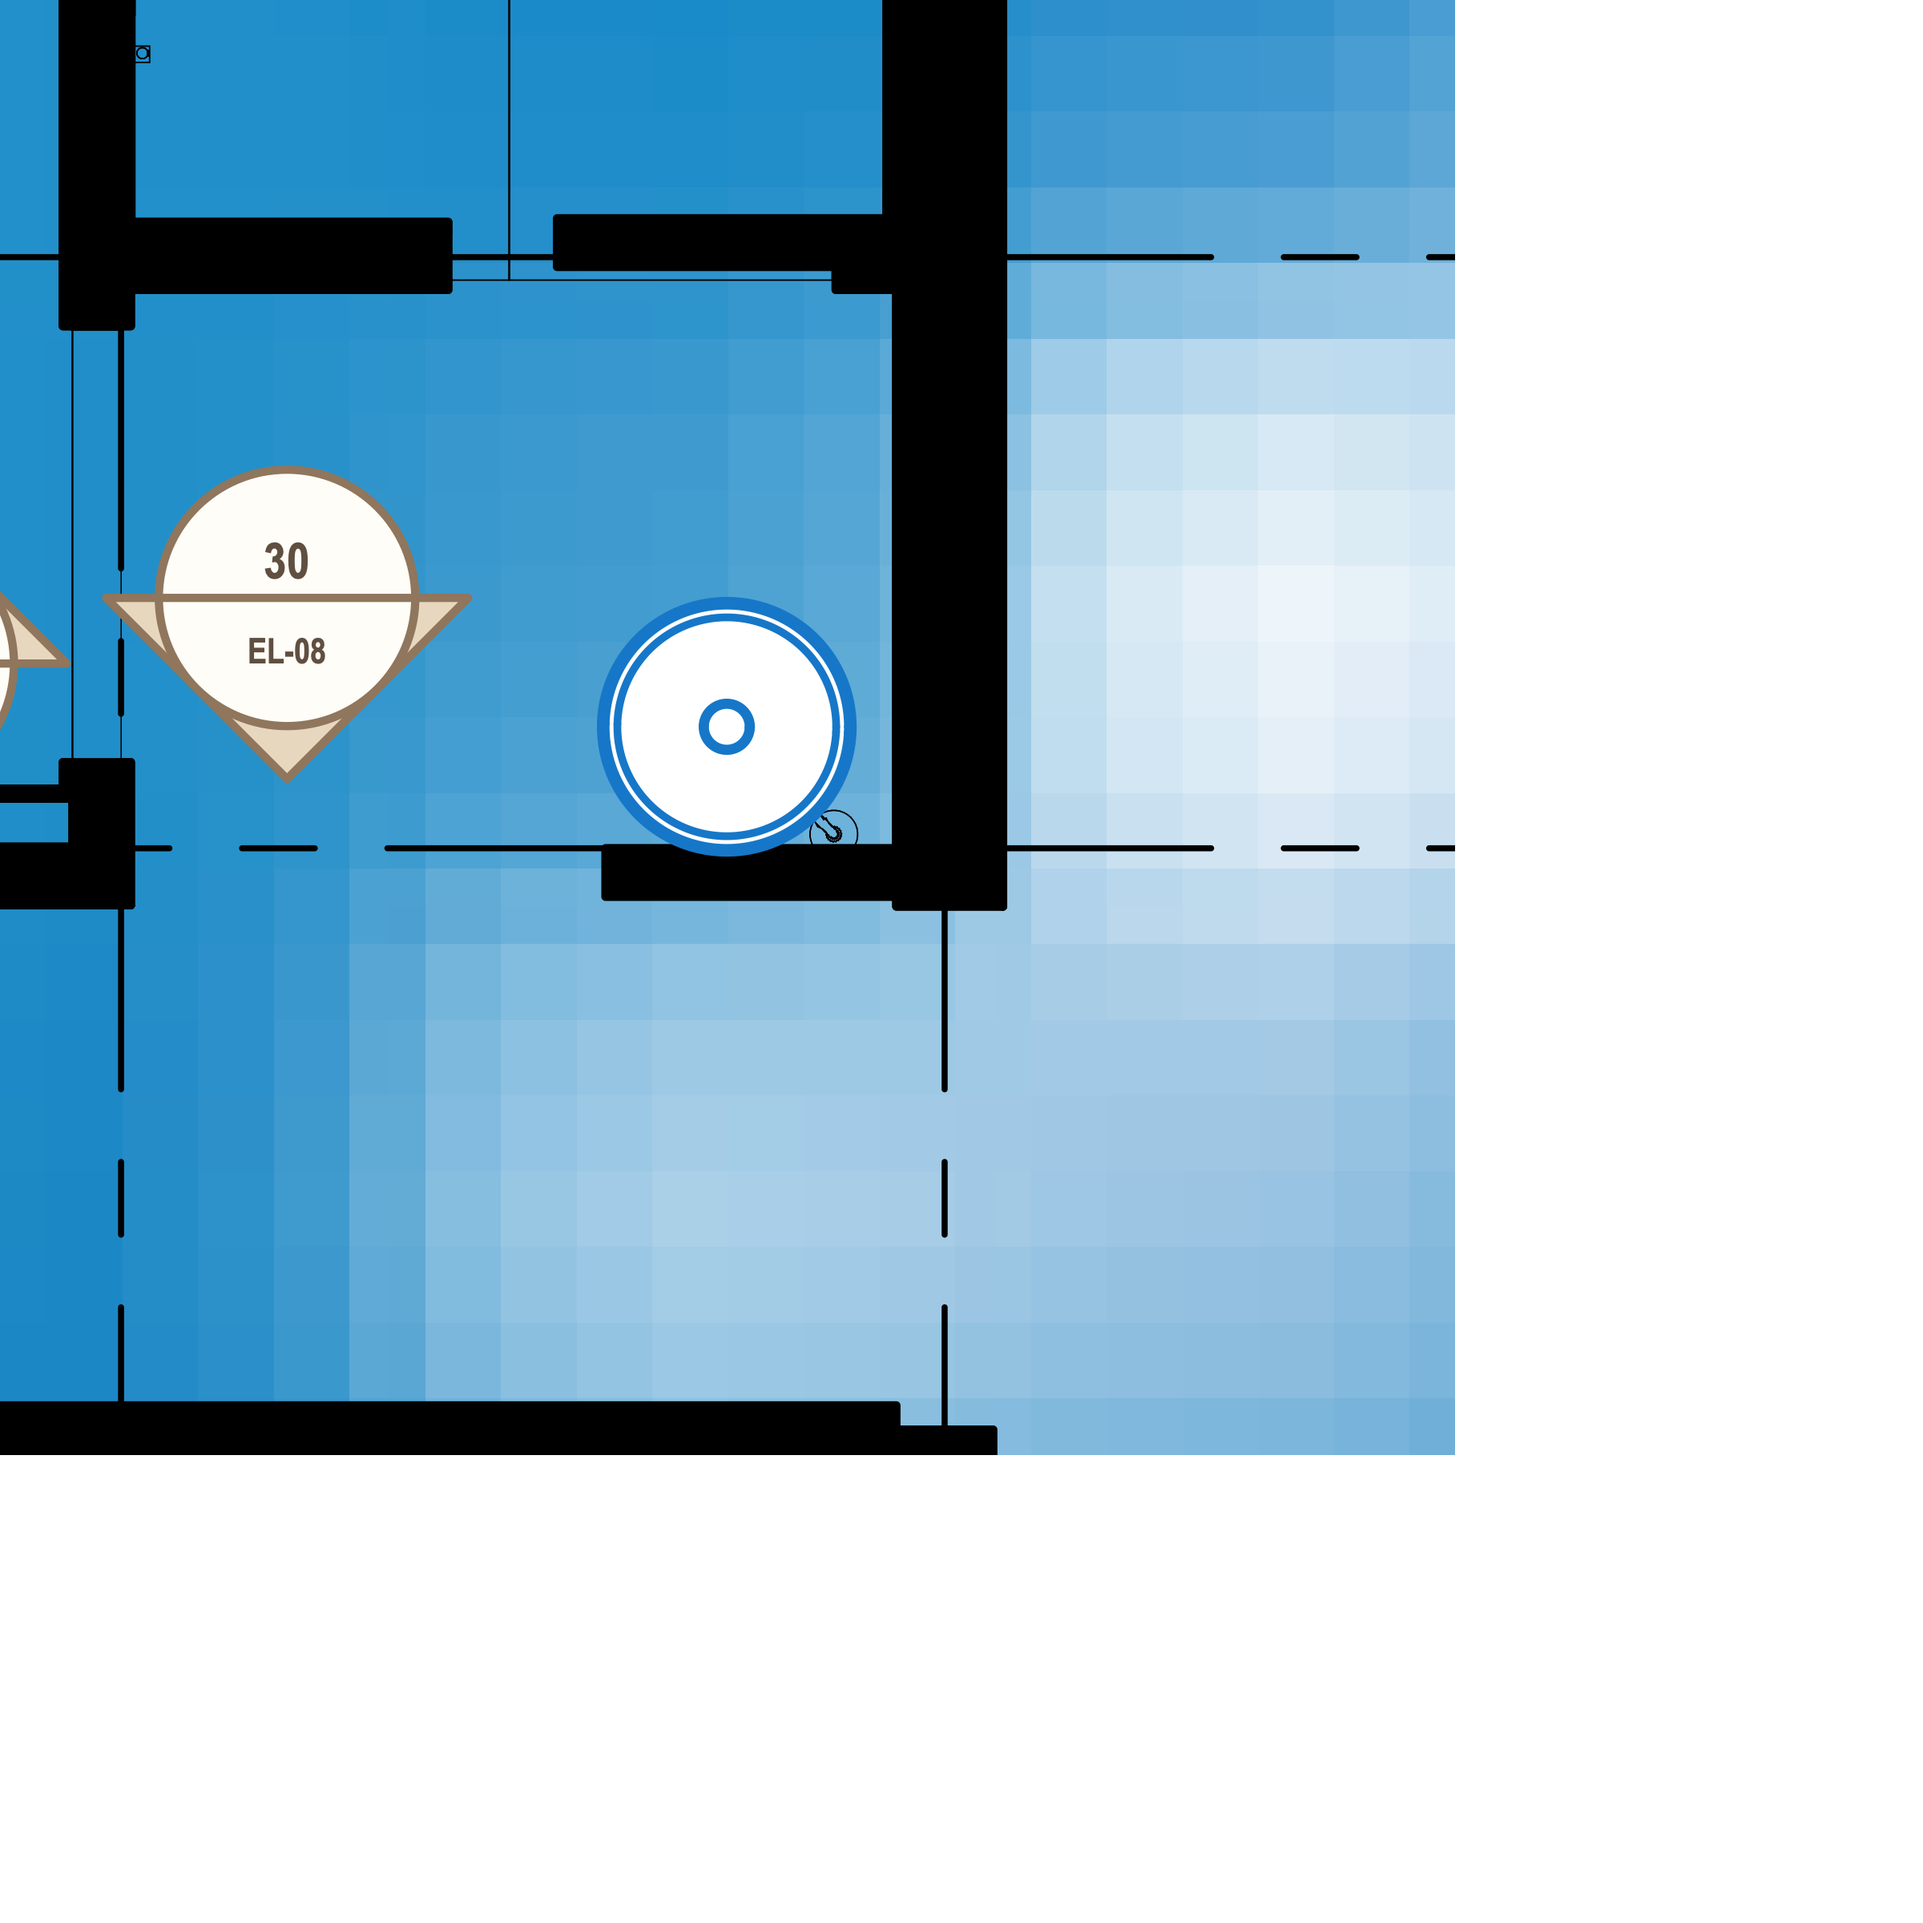
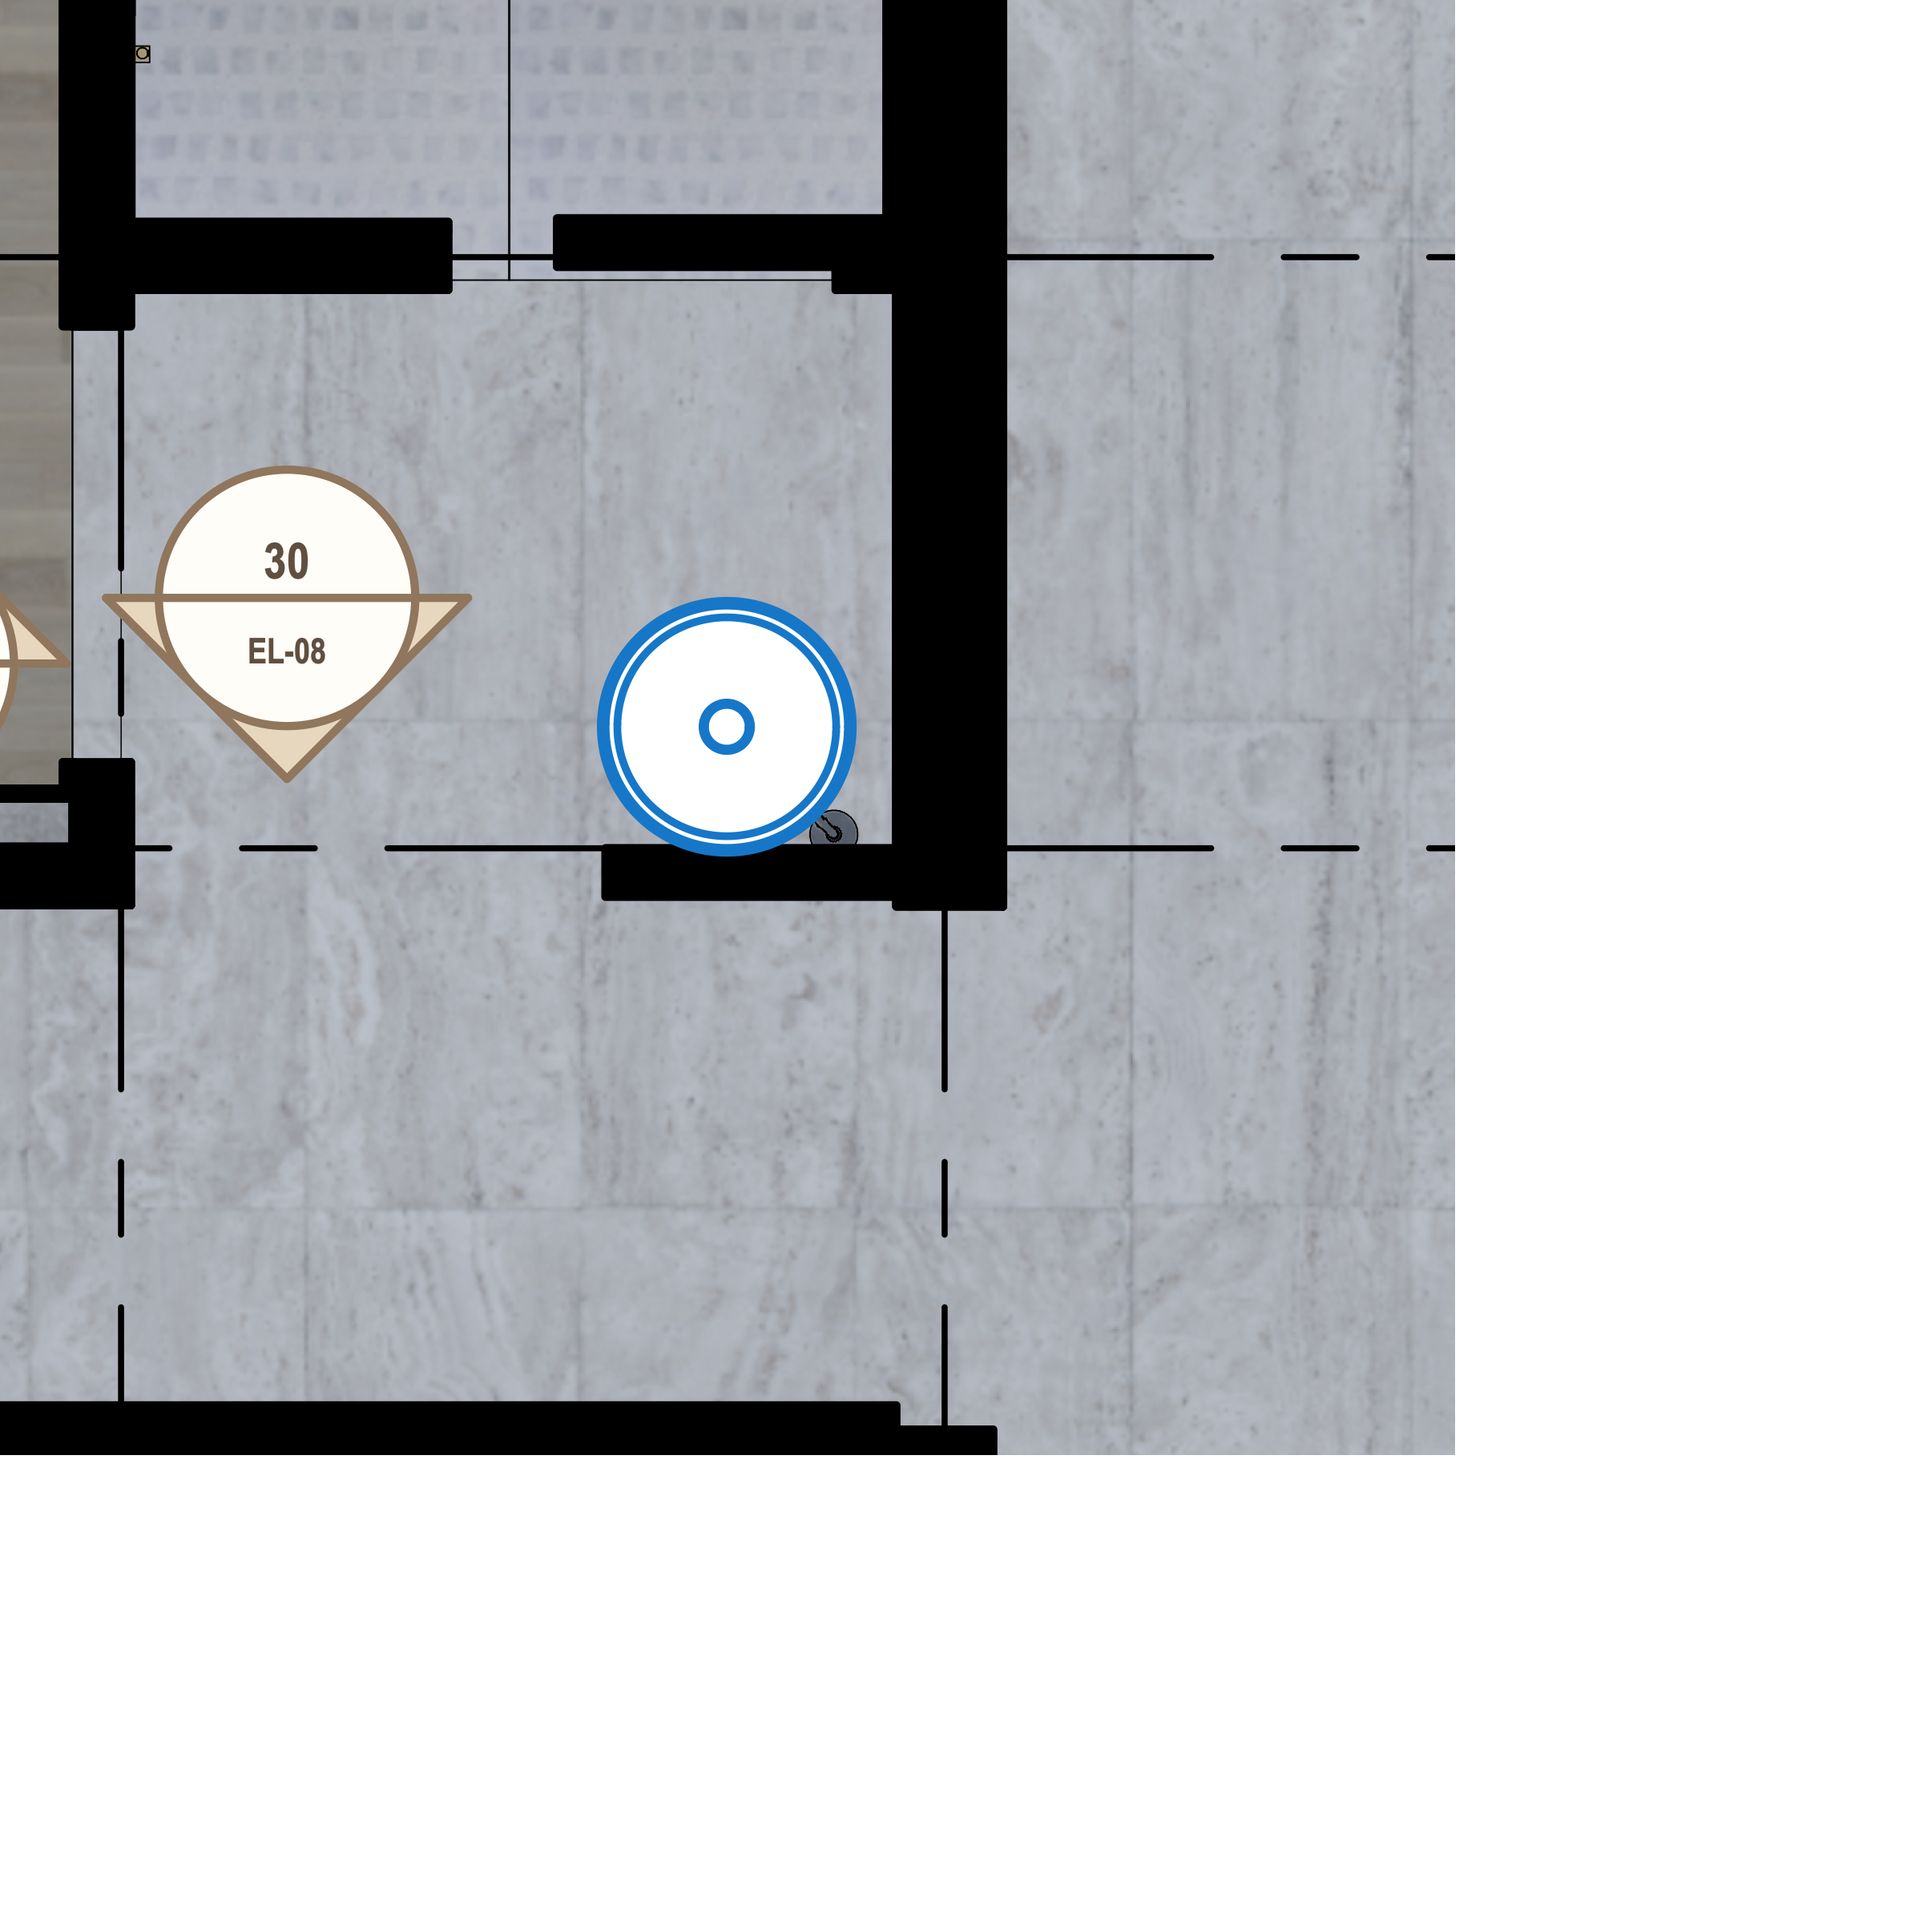
Fix Falper project-context preview resources
Rebase the Bonsai sanitary-plan underlay after moving the styled SVG so walls, finishes, and neighboring fixtures render normally.

Add an external-resource gate and refresh the approved full-plan and review previews; all Falper tests pass with the formal IFC hash unchanged.

diff --git a/pipeline/tests/falper-sorgente-highpoly-review.test.ts b/pipeline/tests/falper-sorgente-highpoly-review.test.ts
@@ -7,7 +7,7 @@ import {
 } from "node:fs";
 import { createHash } from "node:crypto";
 import { tmpdir } from "node:os";
-import { join, resolve } from "node:path";
+import { dirname, join, resolve } from "node:path";
 
 const root = resolve(import.meta.dir, "../..");
 const formalIfc = join(root, "2504 GBTB Yanlord Zhuhai.ifc");
@@ -328,6 +328,12 @@ test("actual Bonsai Drawing cameras select official WFB geometry in project cont
     expect(svg).toContain('data-source-kind="native_dwg"');
     expect(svg).toContain('data-geometry-replaced="false"');
     expect(svg).toContain("stroke:#1677c8");
+    for (const match of svg.matchAll(/(?:xlink:)?href="([^"]+)"/g)) {
+      const reference = match[1];
+      if (!reference.startsWith("#") && !reference.includes(":")) {
+        expect(existsSync(resolve(dirname(join(root, view.styled_svg)), reference))).toBe(true);
+      }
+    }
     if (view.view === "plan") {
       expect(svg).toContain('id="falper-wfb-plan-ifc-representation-supplement"');
       expect(svg).toContain('data-reason="Bonsai hidden-line removal occluded wall-adjacent curve segments"');

diff --git a/pipeline/scripts/style_falper_sorgente_bonsai_project_context.py b/pipeline/scripts/style_falper_sorgente_bonsai_project_context.py
@@ -4,6 +4,7 @@
 from __future__ import annotations
 
 import json
+import os
 import re
 from pathlib import Path
 
@@ -125,6 +126,22 @@ def move_to_top(
     return text.replace("</svg>", overlay + "</svg>", 1)
 
 
+def rebase_external_resources(text: str, source: Path, output: Path) -> str:
+    """Keep Bonsai SVG image resources valid after moving the styled drawing."""
+
+    def replace(match: re.Match[str]) -> str:
+        attribute, reference = match.groups()
+        if reference.startswith(("#", "data:", "http://", "https://")):
+            return match.group(0)
+        resolved = (source.parent / reference).resolve()
+        if not resolved.is_file():
+            raise RuntimeError(f"missing Bonsai SVG resource: {resolved}")
+        rebased = Path(os.path.relpath(resolved, output.parent)).as_posix()
+        return f'{attribute}="{rebased}"'
+
+    return re.sub(r'((?:xlink:)?href)="([^"]+)"', replace, text)
+
+
 def main() -> None:
     if sha256(ROOT / "2504 GBTB Yanlord Zhuhai.ifc") != EXPECTED["formal_ifc"]:
         raise RuntimeError("formal IFC bytes changed")
@@ -236,6 +253,7 @@ def main() -> None:
             style_group(group, config["representation"], visible=view != "plan"),
             ifc_supplement,
         )
+        styled = rebase_external_resources(styled, config["svg"], output)
         output.write_text(styled, encoding="utf-8")
         review_record = write_review_crop(output, review, review_box)
         records.append(
